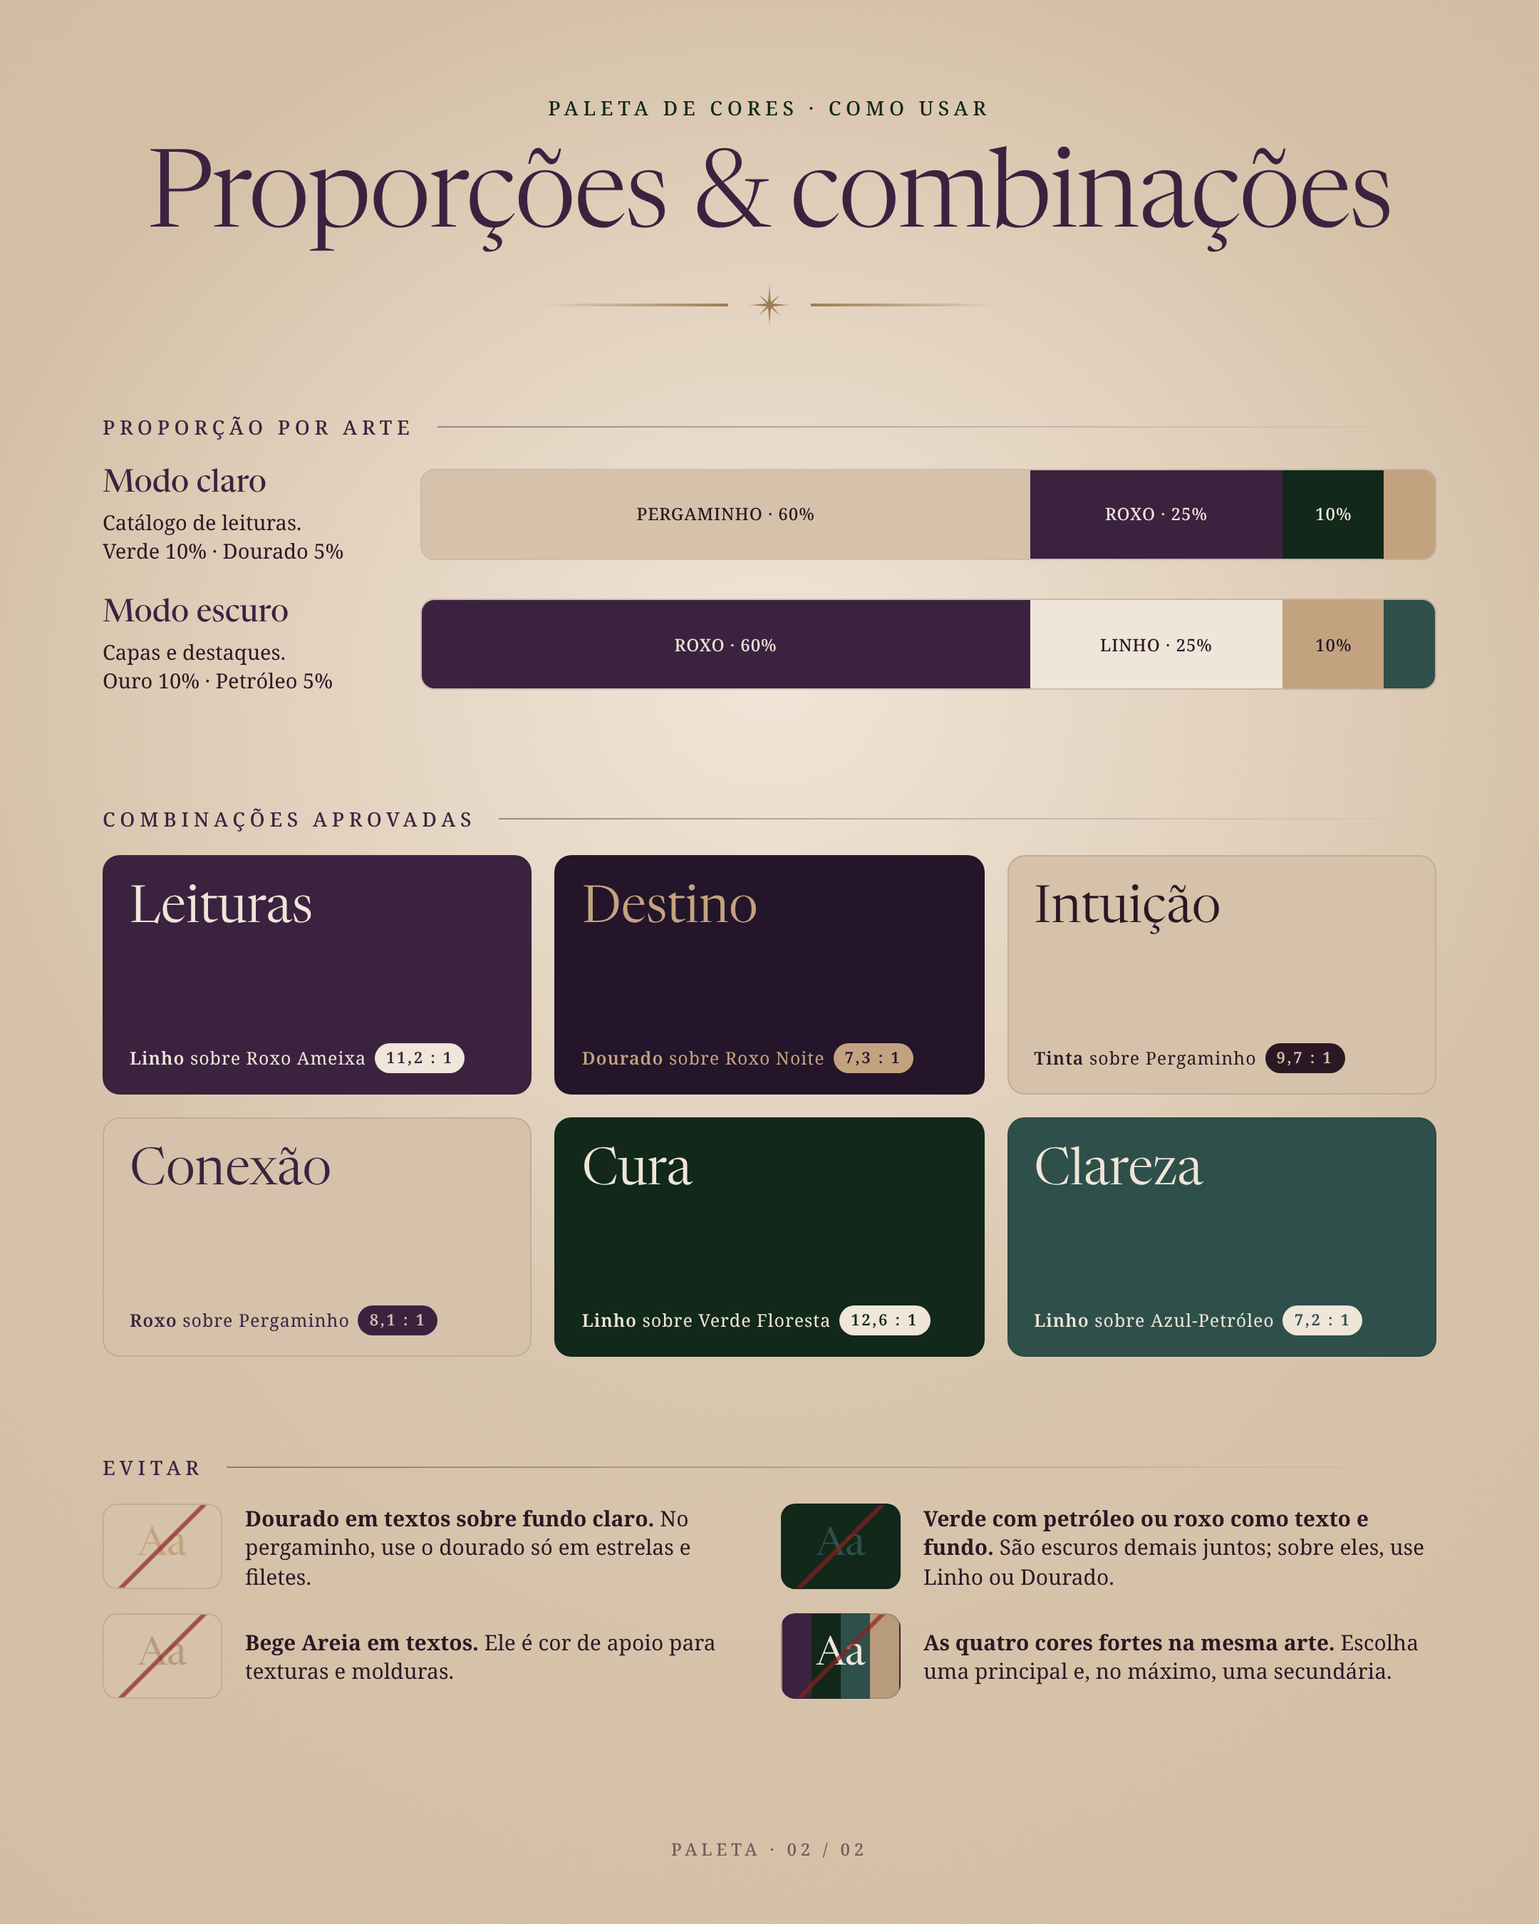
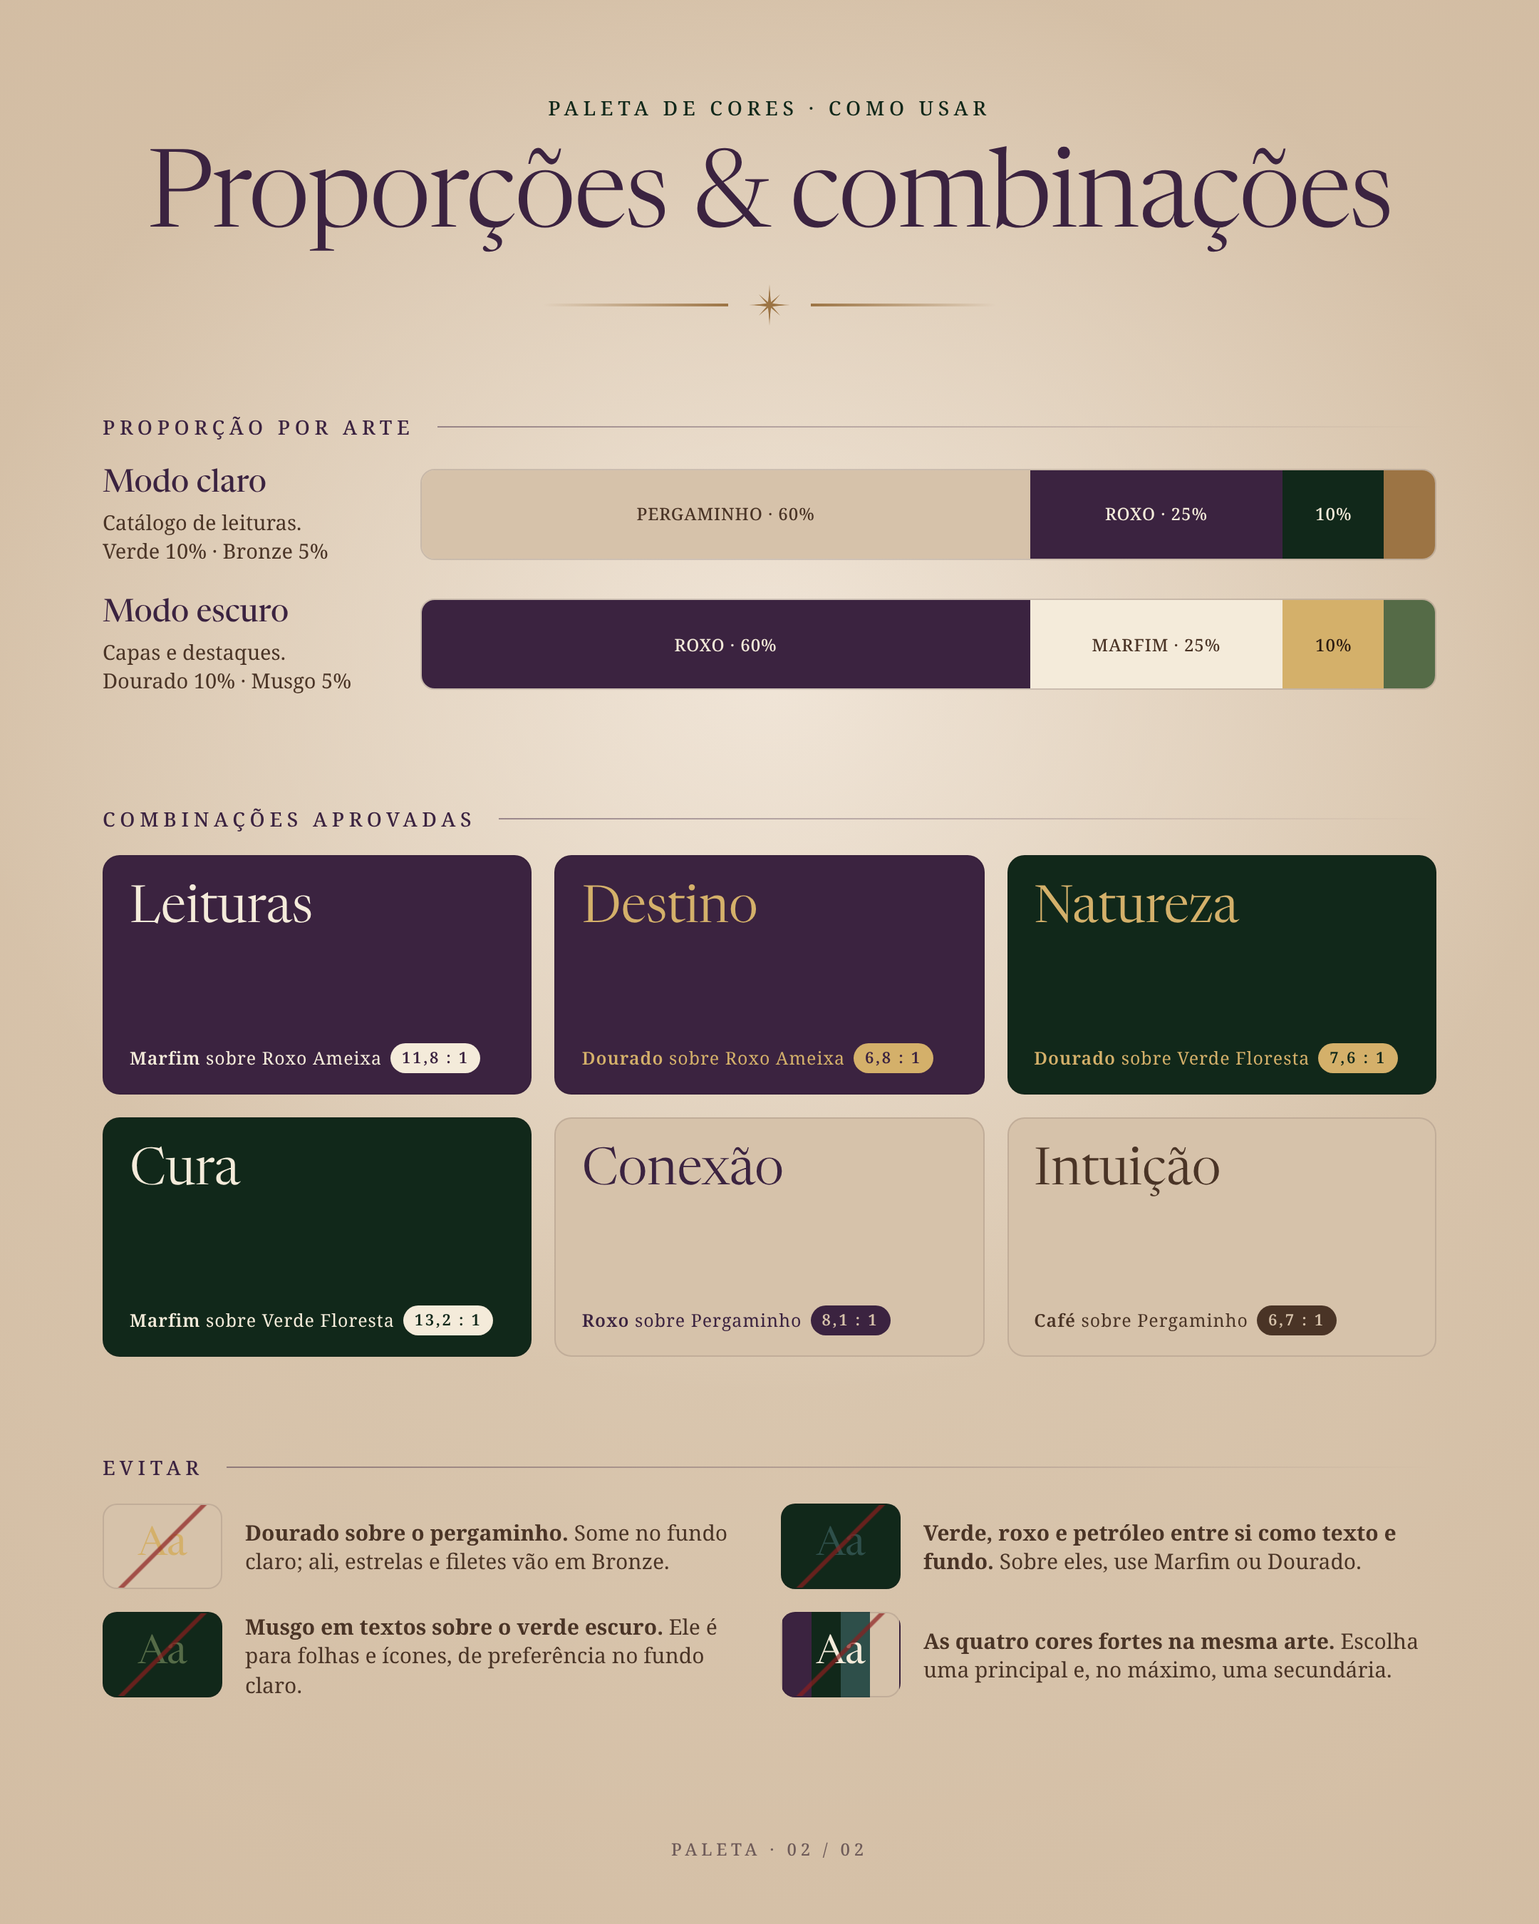
Paleta final: cores de apoio Dourado Vela, Marfim, Musgo, Bronze e Café
Claude-Session: https://claude.ai/code/session_01GV2KUAp8ypSSPxbjxsJTeK

diff --git a/identidade/paleta/paleta.html b/identidade/paleta/paleta.html
@@ -6,8 +6,8 @@
 <link rel="stylesheet" href="../../artes/como-funcionam-as-leituras/fonts2/fonts.css">
 <style>
   :root{
-    --roxo:#3B2340; --noite:#24152A; --verde:#11281A; --petroleo:#2E4F4A;
-    --perg:#D6C2AA; --areia:#B89B7C; --ouro:#C3A37F; --linho:#EFE5D8; --tinta:#2A1824;
+    --roxo:#3B2340; --verde:#11281A; --petroleo:#2E4F4A; --musgo:#556B47; --bronze:#9C7444;
+    --perg:#D6C2AA; --ouro:#D4B06A; --linho:#F4EBDA; --tinta:#4A3426;
   }
   *{margin:0;padding:0;box-sizing:border-box}
   body{background:#111;width:1080px}
@@ -32,24 +32,24 @@
   .p1 .sub{font-style:italic;font-size:22px;color:var(--perg);margin-top:16px;letter-spacing:.02em}
 
   .principais{position:absolute;top:330px;left:72px;right:72px;display:grid;grid-template-columns:1fr 1fr;gap:22px}
-  .card{border-radius:14px;overflow:hidden;background:rgba(239,229,216,.06);border:1px solid rgba(195,163,127,.35)}
+  .card{border-radius:14px;overflow:hidden;background:rgba(244,235,218,.06);border:1px solid rgba(212,176,106,.35)}
   .card .cor{height:200px;position:relative}
   .card .cor span{position:absolute;left:22px;bottom:16px;font-size:13px}
   .card .info{padding:18px 22px 20px;display:grid;grid-template-columns:1fr auto;row-gap:6px}
   .card h3{font-family:'Newsreader',serif;font-variation-settings:'opsz' 72;font-weight:400;font-size:33px;color:var(--linho);letter-spacing:-.01em}
   .card .hex{font-size:20px;font-weight:500;color:var(--ouro);letter-spacing:.06em;align-self:center}
   .card .sig{grid-column:1/-1;font-style:italic;font-size:17px;color:var(--perg)}
-  .card .rgb{grid-column:1/-1;font-size:13px;color:rgba(239,229,216,.6);letter-spacing:.08em}
+  .card .rgb{grid-column:1/-1;font-size:13px;color:rgba(244,235,218,.6);letter-spacing:.08em}
 
   .apoio{position:absolute;top:1046px;left:72px;right:72px}
   .apoio .rot{display:flex;align-items:center;gap:18px;font-size:13px;color:var(--ouro);margin-bottom:20px}
-  .apoio .rot i{flex:1;height:1px;background:linear-gradient(90deg,rgba(195,163,127,.6),transparent)}
-  .linha{display:grid;grid-template-columns:repeat(6,1fr);gap:14px}
-  .mini .cor{height:92px;border-radius:12px;border:1px solid rgba(195,163,127,.35)}
-  .mini b{display:block;font-family:'Newsreader',serif;font-variation-settings:'opsz' 72;font-weight:400;font-size:19.5px;margin-top:12px;color:var(--linho)}
+  .apoio .rot i{flex:1;height:1px;background:linear-gradient(90deg,rgba(212,176,106,.6),transparent)}
+  .linha{display:grid;grid-template-columns:repeat(5,1fr);gap:16px}
+  .mini .cor{height:92px;border-radius:12px;border:1px solid rgba(212,176,106,.35)}
+  .mini b{display:block;font-family:'Newsreader',serif;font-variation-settings:'opsz' 72;font-weight:400;font-size:21px;margin-top:12px;color:var(--linho)}
   .mini small{display:block;font-size:14px;color:var(--ouro);letter-spacing:.06em;margin-top:3px}
-  .mini em{display:block;font-size:13px;color:rgba(239,229,216,.65);margin-top:4px;line-height:1.35}
-  .p1 .pe{position:absolute;bottom:44px;left:0;right:0;text-align:center;font-size:12px;color:rgba(195,163,127,.8)}
+  .mini em{display:block;font-size:13px;color:rgba(244,235,218,.65);margin-top:4px;line-height:1.35}
+  .p1 .pe{position:absolute;bottom:44px;left:0;right:0;text-align:center;font-size:12px;color:rgba(212,176,106,.8)}
 
   /* ---------- página 2: clara ---------- */
   .p2{color:var(--tinta);
@@ -60,8 +60,8 @@
   .p2 .eyebrow{font-size:14px;color:var(--verde);margin-bottom:18px}
   .p2 h1{font-size:76px;color:var(--roxo)}
   .p2 .orn{margin-top:20px}
-  .p2 .orn i:first-child{background:linear-gradient(90deg,transparent,#9C7C54)}
-  .p2 .orn i:last-child{background:linear-gradient(90deg,#9C7C54,transparent)}
+  .p2 .orn i:first-child{background:linear-gradient(90deg,transparent,#9C7444)}
+  .p2 .orn i:last-child{background:linear-gradient(90deg,#9C7444,transparent)}
 
   .sec{position:absolute;left:72px;right:72px}
   .sec h4{font-size:14px;color:var(--roxo);display:flex;align-items:center;gap:16px;margin-bottom:16px}
@@ -101,10 +101,10 @@
 <section class="pg p1" id="p1">
   <svg class="ruido" width="1080" height="1350"><rect width="100%" height="100%" filter="url(#ruido)"/></svg>
   <div class="cab">
-    <div class="orn" style="color:#C3A37F"><i></i><svg width="44" height="44" viewBox="-31 -31 62 62"><use href="#estrela8"/></svg><i></i></div>
+    <div class="orn" style="color:#D4B06A"><i></i><svg width="44" height="44" viewBox="-31 -31 62 62"><use href="#estrela8"/></svg><i></i></div>
     <div class="eyebrow caps" style="margin-top:18px">Identidade visual · Lara Oraculista</div>
     <h1 class="tit">Paleta de cores</h1>
-    <div class="sub">Quatro cores principais, um dourado e cinco tons de apoio.</div>
+    <div class="sub">Quatro cores principais e cinco cores de apoio.</div>
   </div>
 
   <div class="principais">
@@ -123,14 +123,13 @@
   </div>
 
   <div class="apoio">
-    <div class="rot caps"><span>Acento &amp; tons de apoio</span><i></i></div>
+    <div class="rot caps"><span>Cores de apoio</span><i></i></div>
     <div class="linha">
-      <div class="mini"><div class="cor" style="background:linear-gradient(135deg,#D6BC97,#C3A37F 45%,#A88760)"></div><b>Dourado Antigo</b><small>#C3A37F</small><em>Estrelas, filetes e títulos em fundo escuro</em></div>
-      <div class="mini"><div class="cor" style="background:#8B9777"></div><b>Verde Sálvia</b><small>#8B9777</small><em>Folhas e ícones sobre fundo verde</em></div>
-      <div class="mini"><div class="cor" style="background:#24152A"></div><b>Roxo Noite</b><small>#24152A</small><em>Fundos profundos e vinhetas</em></div>
-      <div class="mini"><div class="cor" style="background:#EFE5D8"></div><b>Linho</b><small>#EFE5D8</small><em>Texto sobre fundos escuros</em></div>
-      <div class="mini"><div class="cor" style="background:#2A1824"></div><b>Tinta</b><small>#2A1824</small><em>Texto sobre pergaminho</em></div>
-      <div class="mini"><div class="cor" style="background:#B89B7C"></div><b>Bege Areia</b><small>#B89B7C</small><em>Texturas, molduras e áreas de apoio</em></div>
+      <div class="mini"><div class="cor" style="background:linear-gradient(135deg,#E6C98A,#D4B06A 45%,#B8924C)"></div><b>Dourado Vela</b><small>#D4B06A</small><em>Estrelas, filetes e títulos em fundo escuro</em></div>
+      <div class="mini"><div class="cor" style="background:#F4EBDA"></div><b>Marfim</b><small>#F4EBDA</small><em>Textos sobre fundos escuros</em></div>
+      <div class="mini"><div class="cor" style="background:#556B47"></div><b>Musgo</b><small>#556B47</small><em>Folhas, ícones e detalhes naturais</em></div>
+      <div class="mini"><div class="cor" style="background:#9C7444"></div><b>Bronze</b><small>#9C7444</small><em>Estrelas e filetes sobre fundo claro</em></div>
+      <div class="mini"><div class="cor" style="background:#4A3426"></div><b>Café</b><small>#4A3426</small><em>Textos sobre o pergaminho</em></div>
     </div>
   </div>
   <div class="pe caps">Paleta · 01 / 02</div>
@@ -141,27 +140,27 @@
   <div class="cab">
     <div class="eyebrow caps">Paleta de cores · Como usar</div>
     <h1 class="tit">Proporções &amp; combinações</h1>
-    <div class="orn" style="color:#9C7C54"><i></i><svg width="30" height="30" viewBox="-31 -31 62 62"><use href="#estrela8"/></svg><i></i></div>
+    <div class="orn" style="color:#9C7444"><i></i><svg width="30" height="30" viewBox="-31 -31 62 62"><use href="#estrela8"/></svg><i></i></div>
   </div>
 
   <div class="sec" style="top:290px">
     <h4 class="caps"><span>Proporção por arte</span><i></i></h4>
     <div class="modo">
-      <p><b>Modo claro</b>Catálogo de leituras.<br>Verde 10% · Dourado 5%</p>
+      <p><b>Modo claro</b>Catálogo de leituras.<br>Verde 10% · Bronze 5%</p>
       <div class="prop">
-        <div style="flex:60;background:#D6C2AA;color:#2A1824">PERGAMINHO · 60%</div>
-        <div style="flex:25;background:#3B2340;color:#EFE5D8">ROXO · 25%</div>
-        <div style="flex:10;background:#11281A;color:#EFE5D8">10%</div>
-        <div style="flex:5;background:#C3A37F"></div>
+        <div style="flex:60;background:#D6C2AA;color:#4A3426">PERGAMINHO · 60%</div>
+        <div style="flex:25;background:#3B2340;color:#F4EBDA">ROXO · 25%</div>
+        <div style="flex:10;background:#11281A;color:#F4EBDA">10%</div>
+        <div style="flex:5;background:#9C7444"></div>
       </div>
     </div>
     <div class="modo">
-      <p><b>Modo escuro</b>Capas e destaques.<br>Ouro 10% · Petróleo 5%</p>
+      <p><b>Modo escuro</b>Capas e destaques.<br>Dourado 10% · Musgo 5%</p>
       <div class="prop">
-        <div style="flex:60;background:#3B2340;color:#EFE5D8">ROXO · 60%</div>
-        <div style="flex:25;background:#EFE5D8;color:#2A1824">LINHO · 25%</div>
-        <div style="flex:10;background:#C3A37F;color:#24152A">10%</div>
-        <div style="flex:5;background:#2E4F4A"></div>
+        <div style="flex:60;background:#3B2340;color:#F4EBDA">ROXO · 60%</div>
+        <div style="flex:25;background:#F4EBDA;color:#4A3426">MARFIM · 25%</div>
+        <div style="flex:10;background:#D4B06A;color:#2A1A10">10%</div>
+        <div style="flex:5;background:#556B47"></div>
       </div>
     </div>
   </div>
@@ -169,22 +168,22 @@
   <div class="sec" style="top:565px">
     <h4 class="caps"><span>Combinações aprovadas</span><i></i></h4>
     <div class="combos">
-      <div class="cb" style="background:#3B2340;color:#EFE5D8"><div class="t">Leituras</div><div class="d"><b>Linho</b> sobre Roxo Ameixa<span class="ok" style="background:#EFE5D8;color:#3B2340">11,2 : 1</span></div></div>
-      <div class="cb" style="background:#24152A;color:#C3A37F"><div class="t">Destino</div><div class="d"><b>Dourado</b> sobre Roxo Noite<span class="ok" style="background:#C3A37F;color:#24152A">7,3 : 1</span></div></div>
-      <div class="cb" style="background:#D6C2AA;color:#2A1824"><div class="t">Intuição</div><div class="d"><b>Tinta</b> sobre Pergaminho<span class="ok" style="background:#2A1824;color:#D6C2AA">9,7 : 1</span></div></div>
+      <div class="cb" style="background:#3B2340;color:#F4EBDA"><div class="t">Leituras</div><div class="d"><b>Marfim</b> sobre Roxo Ameixa<span class="ok" style="background:#F4EBDA;color:#3B2340">11,8 : 1</span></div></div>
+      <div class="cb" style="background:#3B2340;color:#D4B06A"><div class="t">Destino</div><div class="d"><b>Dourado</b> sobre Roxo Ameixa<span class="ok" style="background:#D4B06A;color:#3B2340">6,8 : 1</span></div></div>
+      <div class="cb" style="background:#11281A;color:#D4B06A"><div class="t">Natureza</div><div class="d"><b>Dourado</b> sobre Verde Floresta<span class="ok" style="background:#D4B06A;color:#11281A">7,6 : 1</span></div></div>
+      <div class="cb" style="background:#11281A;color:#F4EBDA"><div class="t">Cura</div><div class="d"><b>Marfim</b> sobre Verde Floresta<span class="ok" style="background:#F4EBDA;color:#11281A">13,2 : 1</span></div></div>
       <div class="cb" style="background:#D6C2AA;color:#3B2340"><div class="t">Conexão</div><div class="d"><b>Roxo</b> sobre Pergaminho<span class="ok" style="background:#3B2340;color:#D6C2AA">8,1 : 1</span></div></div>
-      <div class="cb" style="background:#11281A;color:#EFE5D8"><div class="t">Cura</div><div class="d"><b>Linho</b> sobre Verde Floresta<span class="ok" style="background:#EFE5D8;color:#11281A">12,6 : 1</span></div></div>
-      <div class="cb" style="background:#2E4F4A;color:#EFE5D8"><div class="t">Clareza</div><div class="d"><b>Linho</b> sobre Azul-Petróleo<span class="ok" style="background:#EFE5D8;color:#2E4F4A">7,2 : 1</span></div></div>
+      <div class="cb" style="background:#D6C2AA;color:#4A3426"><div class="t">Intuição</div><div class="d"><b>Café</b> sobre Pergaminho<span class="ok" style="background:#4A3426;color:#D6C2AA">6,7 : 1</span></div></div>
     </div>
   </div>
 
   <div class="sec" style="top:1020px">
     <h4 class="caps"><span>Evitar</span><i></i></h4>
     <div class="evitar">
-      <div class="ev"><div class="x" style="background:#D6C2AA;color:#C3A37F">Aa</div><div><b>Dourado em textos sobre fundo claro.</b> No pergaminho, use o dourado só em estrelas e filetes.</div></div>
-      <div class="ev"><div class="x" style="background:#11281A;color:#2E4F4A">Aa</div><div><b>Verde com petróleo ou roxo como texto e fundo.</b> São escuros demais juntos; sobre eles, use Linho ou Dourado.</div></div>
-      <div class="ev"><div class="x" style="background:#D6C2AA;color:#B89B7C">Aa</div><div><b>Bege Areia em textos.</b> Ele é cor de apoio para texturas e molduras.</div></div>
-      <div class="ev"><div class="x" style="background:linear-gradient(90deg,#3B2340 25%,#11281A 25% 50%,#2E4F4A 50% 75%,#B89B7C 75%);color:#EFE5D8">Aa</div><div><b>As quatro cores fortes na mesma arte.</b> Escolha uma principal e, no máximo, uma secundária.</div></div>
+      <div class="ev"><div class="x" style="background:#D6C2AA;color:#D4B06A">Aa</div><div><b>Dourado sobre o pergaminho.</b> Some no fundo claro; ali, estrelas e filetes vão em Bronze.</div></div>
+      <div class="ev"><div class="x" style="background:#11281A;color:#2E4F4A">Aa</div><div><b>Verde, roxo e petróleo entre si como texto e fundo.</b> Sobre eles, use Marfim ou Dourado.</div></div>
+      <div class="ev"><div class="x" style="background:#11281A;color:#556B47">Aa</div><div><b>Musgo em textos sobre o verde escuro.</b> Ele é para folhas e ícones, de preferência no fundo claro.</div></div>
+      <div class="ev"><div class="x" style="background:linear-gradient(90deg,#3B2340 25%,#11281A 25% 50%,#2E4F4A 50% 75%,#D6C2AA 75%);color:#F4EBDA">Aa</div><div><b>As quatro cores fortes na mesma arte.</b> Escolha uma principal e, no máximo, uma secundária.</div></div>
     </div>
   </div>
   <div class="pe caps">Paleta · 02 / 02</div>

diff --git a/identidade/paleta/cores.md b/identidade/paleta/cores.md
@@ -8,32 +8,30 @@
 | Pergaminho | #D6C2AA | 214, 194, 170 | Equilíbrio, verdade e aterramento | Fundo claro |
 | Azul-Petróleo | #2E4F4A | 46, 79, 74 | Clareza, profundidade e lealdade | Secundária |
 
-## Acento e apoio
+## Cores de apoio
 | Cor | HEX | RGB | Uso |
 |---|---|---|---|
-| Dourado Antigo | #C3A37F | 195, 163, 127 | Estrelas, filetes, títulos em fundo escuro |
-| Verde Sálvia | #8B9777 | 139, 151, 119 | Folhas e ícones sobre fundo verde |
-| Roxo Noite | #24152A | 36, 21, 42 | Fundos profundos e vinhetas |
-| Linho | #EFE5D8 | 239, 229, 216 | Texto sobre fundos escuros |
-| Tinta | #2A1824 | 42, 24, 36 | Texto sobre pergaminho |
-| Bege Areia | #B89B7C | 184, 155, 124 | Texturas, molduras e áreas de apoio |
+| Dourado Vela | #D4B06A | 212, 176, 106 | Estrelas, filetes e títulos em fundo escuro |
+| Marfim | #F4EBDA | 244, 235, 218 | Textos sobre fundos escuros |
+| Musgo | #556B47 | 85, 107, 71 | Folhas, ícones e detalhes naturais |
+| Bronze | #9C7444 | 156, 116, 68 | Estrelas e filetes sobre fundo claro |
+| Café | #4A3426 | 74, 52, 38 | Textos sobre o pergaminho |
 
 ## Proporções
-- Modo claro (catálogo): Pergaminho 60% · Roxo 25% · Verde 10% · Dourado 5%
-- Modo escuro (capas e destaques): Roxo 60% · Linho 25% · Dourado 10% · Petróleo 5%
+- Modo claro (catálogo): Pergaminho 60% · Roxo 25% · Verde 10% · Bronze 5%
+- Modo escuro (capas e destaques): Roxo 60% · Marfim 25% · Dourado 10% · Musgo 5%
 
 ## Combinações aprovadas (contraste)
-- Linho sobre Roxo Ameixa — 11,2 : 1
-- Dourado sobre Roxo Noite — 7,3 : 1
-- Tinta sobre Pergaminho — 9,7 : 1
+- Marfim sobre Roxo Ameixa — 11,8 : 1
+- Dourado sobre Roxo Ameixa — 6,8 : 1
+- Dourado sobre Verde Floresta — 7,6 : 1
+- Marfim sobre Verde Floresta — 13,2 : 1
 - Roxo sobre Pergaminho — 8,1 : 1
-- Linho sobre Verde Floresta — 12,6 : 1
-- Dourado sobre Verde Floresta — 6,6 : 1
-- Verde Sálvia sobre Verde Floresta — 5,1 : 1 (ícones e folhas)
-- Linho sobre Azul-Petróleo — 7,2 : 1
+- Café sobre Pergaminho — 6,7 : 1
+- Marfim sobre Azul-Petróleo — 7,6 : 1
 
 ## Evitar
-- Dourado em textos sobre fundo claro (1,4 : 1) — só em ornamentos.
-- Verde com petróleo ou roxo como texto/fundo entre si (escuros demais juntos).
-- Bege Areia em textos.
+- Dourado sobre o pergaminho (1,2 : 1): no fundo claro, estrelas e filetes vão em Bronze.
+- Verde, roxo e petróleo entre si como texto e fundo: sobre eles, use Marfim ou Dourado.
+- Musgo em textos sobre o verde escuro (2,7 : 1): ele é para folhas e ícones, de preferência no fundo claro.
 - As quatro cores fortes na mesma arte: uma principal + no máximo uma secundária.
